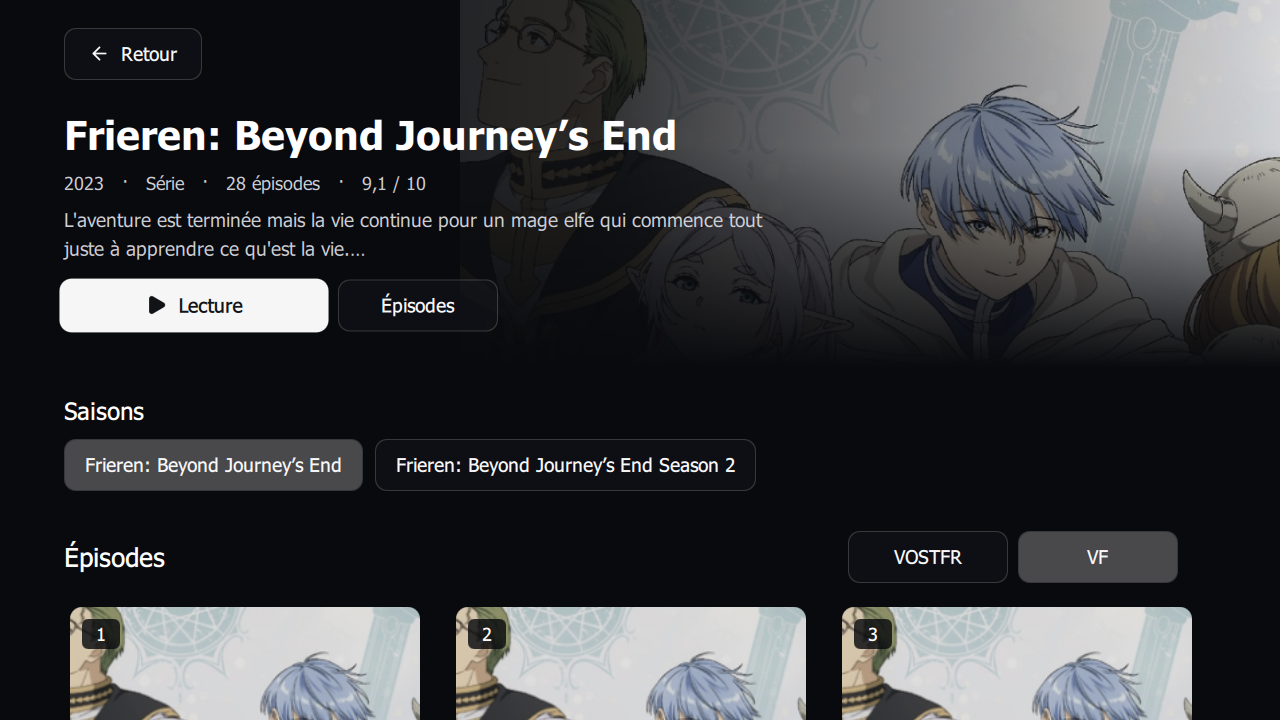
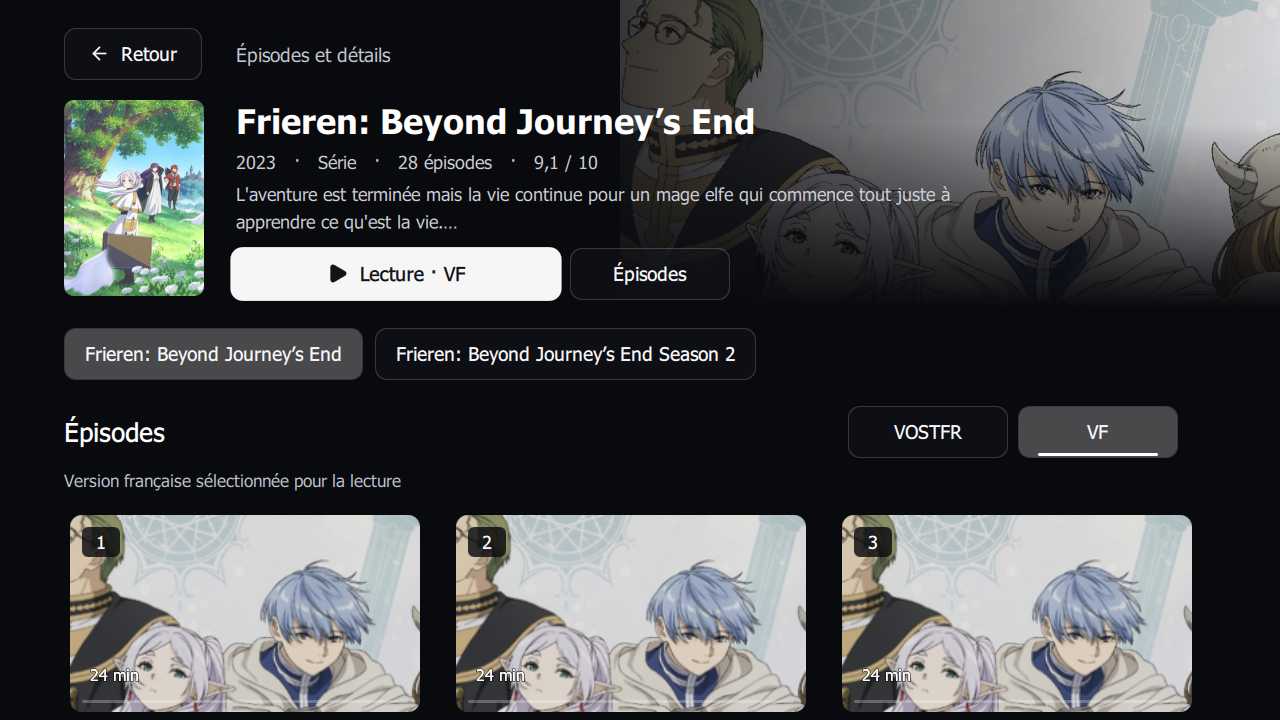
fix: clarify TV details language selection and back navigation

diff --git a/packages/lan/devialet/hero/DetailView.qml b/packages/lan/devialet/hero/DetailView.qml
@@ -28,6 +28,7 @@ FocusScope {
     property int pageIndex: 0
     property int pageStart: 1
     property bool french: false
+    property int languageIndex: 0
     property var stack: []
     readonly property var card: detail && detail.carte ? detail.carte : media
     readonly property var episodes: episodeData && episodeData.episodes ? episodeData.episodes : []
@@ -46,7 +47,7 @@ FocusScope {
     function open(c) {stack=[];opened=true;load(c);forceActiveFocus();}
     function load(c) {
         var key=identity(c),turn=++generation;episodeGeneration++;media=c;detail=null;episodeData=null;extrasError='';state='loading';episodeState='loading';zone='actions';actionIndex=0;episodeIndex=0;relationIndex=0;castIndex=0;recommendationIndex=0;pageIndex=0;pageStart=1;
-        french=!!(c && (c.a_lancer ? c.a_lancer.vf : c.franime && c.franime.vf));viewport.contentY=0;
+        french=!!(c && (c.a_lancer ? c.a_lancer.vf : c.franime && c.franime.vf));languageIndex=french ? 1 : 0;viewport.contentY=0;
         if(!key || !transport){state='error';return;}
         artworks.request(c,'banner',true);
         transport.api('/tv/v1/catalog/detail',key,45000,function(status,value) {
@@ -83,11 +84,12 @@ FocusScope {
             });
         });
     }
-    function remember() {return {media:media,detail:detail,episodeData:episodeData,zone:zone,actionIndex:actionIndex,episodeIndex:episodeIndex,seasonIndex:seasonIndex,relationIndex:relationIndex,castIndex:castIndex,recommendationIndex:recommendationIndex,pageStart:pageStart,french:french,scroll:viewport.contentY};}
+    function remember() {return {media:media,detail:detail,episodeData:episodeData,zone:zone,actionIndex:actionIndex,episodeIndex:episodeIndex,seasonIndex:seasonIndex,relationIndex:relationIndex,castIndex:castIndex,recommendationIndex:recommendationIndex,pageStart:pageStart,french:french,languageIndex:languageIndex,scroll:viewport.contentY};}
     function visit(c) {if(!identity(c))return;stack=stack.slice(-11).concat([remember()]);load(c);}
     function back() {
+        if(!stack.length && zone!=='actions' && zone!=='back'){zone='actions';actionIndex=0;viewport.contentY=0;return;}
         generation++;episodeGeneration++;
-        if(stack.length){var saved=stack[stack.length-1];stack=stack.slice(0,-1);media=saved.media;detail=saved.detail;episodeData=saved.episodeData;state=detail ? 'ready' : 'error';episodeState=episodeData ? 'ready' : 'error';zone=saved.zone;actionIndex=saved.actionIndex;episodeIndex=saved.episodeIndex;seasonIndex=saved.seasonIndex;relationIndex=saved.relationIndex;castIndex=saved.castIndex;recommendationIndex=saved.recommendationIndex;pageStart=saved.pageStart;french=saved.french;Qt.callLater(function(){viewport.contentY=saved.scroll;});}
+        if(stack.length){var saved=stack[stack.length-1];stack=stack.slice(0,-1);media=saved.media;detail=saved.detail;episodeData=saved.episodeData;state=detail ? 'ready' : 'error';episodeState=episodeData ? 'ready' : 'error';zone=saved.zone;actionIndex=saved.actionIndex;episodeIndex=saved.episodeIndex;seasonIndex=saved.seasonIndex;relationIndex=saved.relationIndex;castIndex=saved.castIndex;recommendationIndex=saved.recommendationIndex;pageStart=saved.pageStart;french=saved.french;languageIndex=saved.languageIndex;Qt.callLater(function(){viewport.contentY=saved.scroll;});}
         else {opened=false;closed();}
     }
     function launch(e) {
@@ -110,11 +112,11 @@ FocusScope {
         viewport.contentY=item ? Math.min(item.y-28,Math.max(0,viewport.contentHeight-viewport.height)) : 0;
         if(zone==='episodes')episodeRail.positionViewAtIndex(episodeIndex,ListView.Contain);
     }
-    function move(direction) {var list=zones(),at=list.indexOf(zone);zone=list[Math.max(0,Math.min(list.length-1,at+direction))];scrollToZone();}
+    function move(direction) {var list=zones(),at=list.indexOf(zone);zone=list[Math.max(0,Math.min(list.length-1,at+direction))];if(zone==='language')languageIndex=french ? 1 : 0;scrollToZone();}
     function activate() {
         if(zone==='back')back();else if(zone==='actions'){if(actionIndex===1){zone=episodes.length ? 'episodes' : 'language';scrollToZone();}else primary();}
         else if(zone==='seasons') {var c=seasons[seasonIndex];if(c && (!card || c.anilist_id!==card.anilist_id))visit(c);}
-        else if(zone==='language'){if(hasFrench)french=!french;else if(episodeState==='error')loadEpisodes(pageStart,0);}
+        else if(zone==='language'){if(languageIndex===0 || hasFrench){french=languageIndex===1;extrasError='';}else extrasError='La VF n’est pas disponible pour cette saison.';}
         else if(zone==='episodes')launch(currentEpisode);
         else if(zone==='pages'){if(pageIndex===0 && canPrevious)loadEpisodes(Math.max(1,pageStart-40),0);else if(pageIndex===1 && canNext)loadEpisodes(pageStart+episodes.length,0);}
         else if(zone==='relations')visit(relations[relationIndex].carte);
@@ -122,7 +124,7 @@ FocusScope {
     }
     function horizontal(delta) {
         if(zone==='actions')actionIndex=Math.max(0,Math.min(1,actionIndex+delta));
-        else if(zone==='language' && hasFrench)french=delta>0;
+        else if(zone==='language')languageIndex=delta>0 ? 1 : 0;
         else if(zone==='seasons')seasonIndex=Math.max(0,Math.min(seasons.length-1,seasonIndex+delta));
         else if(zone==='episodes'){episodeIndex=Math.max(0,Math.min(episodes.length-1,episodeIndex+delta));episodeRail.positionViewAtIndex(episodeIndex,ListView.Contain);}
         else if(zone==='pages')pageIndex=delta>0 ? 1 : 0;
@@ -134,25 +136,29 @@ FocusScope {
     Flickable {
         id:viewport;objectName:'detailViewport';anchors.fill:parent;contentWidth:1280;contentHeight:content.height;interactive:false;clip:true;boundsBehavior:Flickable.StopAtBounds
         Behavior on contentY {enabled:!view.reducedMotion;NumberAnimation {duration:Motion.ms('scroll');easing.type:Easing.Bezier;easing.bezierCurve:Motion.easeOut()}}
-        Column {id:content;width:1280;spacing:28
-            Item {id:header;width:1280;height:Math.max(368,headerText.height+140)
-                HeroArtwork {x:460;y:0;width:820;height:header.height;retainPrevious:false;requestedSource:view.art(view.card);fallbackSource:view.card ? view.card.affiche || '' : '';onFailed:view.artworks.request(view.card,poster ? 'poster' : 'banner',true)}
+        Column {id:content;width:1280;spacing:20
+            Item {id:header;width:1280;height:Math.max(308,headerText.height+108)
+                HeroArtwork {x:620;y:0;width:660;height:header.height;retainPrevious:false;requestedSource:view.art(view.card);fallbackSource:view.card ? view.card.affiche || '' : '';onFailed:view.artworks.request(view.card,poster ? 'poster' : 'banner',true)}
                 Rectangle {anchors.fill:parent;gradient:Gradient {orientation:Gradient.Horizontal;GradientStop {position:0;color:'#ff090a0d'} GradientStop {position:.45;color:'#dc090a0d'} GradientStop {position:1;color:'#20090a0d'}}}
                 Rectangle {anchors.fill:parent;gradient:Gradient {GradientStop {position:.4;color:'#00090a0d'} GradientStop {position:1;color:'#ff090a0d'}}}
                 HeroButton {x:64;y:28;width:138;iconKey:'arrow-left';label:'Retour';family:view.family;focused:view.zone==='back';onActivated:view.back()}
-                Column {id:headerText;x:64;y:110;width:760;spacing:14
-                    Text {width:760;text:view.card ? view.card.titre || '' : '';textFormat:Text.PlainText;color:'white';font.family:view.family;font.pixelSize:40;font.weight:Font.Bold;maximumLineCount:2;wrapMode:Text.WordWrap;elide:Text.ElideRight}
+                Text {x:236;y:43;text:'Épisodes et détails';color:'#c6c9d3';font.family:view.family;font.pixelSize:19}
+                Rectangle {x:64;y:100;width:140;height:196;radius:10;color:'#242731'
+                    Image {id:poster;anchors.fill:parent;source:{var local=view.artworks && view.card ? view.artworks.sources[String(view.card.anilist_id)] : null;return local && local.poster || (view.card ? view.card.affiche || '' : '');}asynchronous:true;fillMode:Image.PreserveAspectCrop;sourceSize.width:280;visible:false;onStatusChanged:if(status===Image.Error)view.artworks.request(view.card,'poster',true)}
+                    OpacityMask {anchors.fill:parent;source:poster;maskSource:Rectangle {width:140;height:196;radius:10}}
+                }
+                Column {id:headerText;x:236;y:100;width:820;spacing:10
+                    Text {width:820;text:view.card ? view.card.titre || '' : '';textFormat:Text.PlainText;color:'white';font.family:view.family;font.pixelSize:34;font.weight:Font.Bold;maximumLineCount:2;wrapMode:Text.WordWrap;elide:Text.ElideRight}
                     Text {text:view.card ? [view.card.annee,view.card.format==='MOVIE' ? 'Film' : 'Série',view.card.episodes ? view.card.episodes+' épisodes' : '',view.card.score ? (view.card.score/10).toFixed(1).replace('.',',')+' / 10' : ''].filter(function(v){return !!v;}).join('   ·   ') : '';color:'#d0d1d8';font.family:view.family;font.pixelSize:18}
-                    Text {width:700;text:view.detail ? view.detail.resume_complet || '' : view.state==='error' ? 'La fiche est indisponible pour le moment.' : 'Chargement de la fiche…';textFormat:Text.PlainText;color:'#d0d1d8';font.family:view.family;font.pixelSize:19;lineHeight:1.25;maximumLineCount:2;wrapMode:Text.WordWrap;elide:Text.ElideRight}
+                    Text {width:790;text:view.detail ? view.detail.resume_complet || '' : view.state==='error' ? 'La fiche est indisponible pour le moment.' : 'Chargement de la fiche…';textFormat:Text.PlainText;color:'#d0d1d8';font.family:view.family;font.pixelSize:18;lineHeight:1.25;maximumLineCount:2;wrapMode:Text.WordWrap;elide:Text.ElideRight}
                     Row {spacing:14
-                        HeroButton {objectName:'detailPlay';width:260;iconKey:'play';label:view.state==='error' || view.episodeState==='error' ? 'Réessayer' : view.card && view.card.a_lancer ? 'Reprendre · Ép. '+view.card.a_lancer.numero : 'Lecture';family:view.family;primary:true;groupHasFocus:true;focused:view.zone==='actions' && view.actionIndex===0;onActivated:view.primary()}
+                        HeroButton {objectName:'detailPlay';width:320;iconKey:'play';label:view.state==='error' || view.episodeState==='error' ? 'Réessayer' : (view.card && view.card.a_lancer ? 'Reprendre · Ép. '+view.card.a_lancer.numero : 'Lecture')+' · '+(view.french ? 'VF' : 'VOSTFR');family:view.family;primary:true;groupHasFocus:true;focused:view.zone==='actions' && view.actionIndex===0;onActivated:view.primary()}
                         HeroButton {width:160;label:'Épisodes';family:view.family;focused:view.zone==='actions' && view.actionIndex===1;onActivated:{view.zone='actions';view.actionIndex=1;view.activate();}}
                     }
                 }
             }
             Column {id:seasonSection;x:64;width:1152;spacing:14;visible:view.seasons.length>1
-                Text {text:'Saisons';color:'white';font.family:view.family;font.pixelSize:24;font.weight:Font.DemiBold}
-                ListView {id:seasonRail;width:1152;height:64;orientation:ListView.Horizontal;spacing:12;clip:true;interactive:false;model:view.seasons;currentIndex:view.seasonIndex;onCurrentIndexChanged:positionViewAtIndex(currentIndex,ListView.Contain)
+                ListView {id:seasonRail;width:1152;height:58;orientation:ListView.Horizontal;spacing:12;clip:true;interactive:false;model:view.seasons;currentIndex:view.seasonIndex;onCurrentIndexChanged:positionViewAtIndex(currentIndex,ListView.Contain)
                     delegate:HeroButton {width:Math.min(420,Math.max(210,seasonLabel.implicitWidth+42));label:modelData.titre || '';family:view.family;focused:view.zone==='seasons' && view.seasonIndex===index;selected:view.card && modelData.anilist_id===view.card.anilist_id;onActivated:{view.seasonIndex=index;view.zone='seasons';view.activate();}
                         Text {id:seasonLabel;text:modelData.titre || '';font.family:view.family;font.pixelSize:19;visible:false}
                     }
@@ -162,10 +168,15 @@ FocusScope {
                 Row {width:1152;spacing:24
                     Text {width:760;anchors.verticalCenter:parent.verticalCenter;text:'Épisodes';color:'white';font.family:view.family;font.pixelSize:26;font.weight:Font.DemiBold}
                     Row {spacing:10
-                        HeroButton {objectName:'episodeLanguage';width:160;label:'VOSTFR';family:view.family;selected:!view.french;focused:view.zone==='language' && !view.french;onActivated:{view.zone='language';view.french=false;}}
-                        HeroButton {width:160;label:'VF';family:view.family;selected:view.french;opacity:view.hasFrench ? 1 : .35;focused:view.zone==='language' && view.french;onActivated:{view.zone='language';if(view.hasFrench)view.french=true;}}
+                        HeroButton {objectName:'episodeLanguage';width:160;label:'VOSTFR';family:view.family;selected:!view.french;focused:view.zone==='language' && view.languageIndex===0;onActivated:{view.zone='language';view.languageIndex=0;view.activate();}
+                            Rectangle {x:20;y:parent.height-5;width:parent.width-40;height:3;radius:1.5;color:view.zone==='language' && view.languageIndex===0 ? '#16181d' : 'white';visible:!view.french}
+                        }
+                        HeroButton {width:160;label:'VF';family:view.family;selected:view.french;opacity:view.hasFrench ? 1 : .35;focused:view.zone==='language' && view.languageIndex===1;onActivated:{view.zone='language';view.languageIndex=1;view.activate();}
+                            Rectangle {x:20;y:parent.height-5;width:parent.width-40;height:3;radius:1.5;color:view.zone==='language' && view.languageIndex===1 ? '#16181d' : 'white';visible:view.french}
+                        }
                     }
                 }
+                Text {width:1152;text:view.french ? 'Version française sélectionnée pour la lecture' : 'Version originale sous-titrée en français sélectionnée';color:'#c1c5d0';font.family:view.family;font.pixelSize:17}
                 Text {height:visible ? implicitHeight : 0;visible:view.episodeState!=='ready' || !view.episodes.length; text:view.episodeState==='loading' ? 'Chargement des épisodes…' : view.episodeState==='error' ? 'Épisodes indisponibles. Choisis Réessayer en haut de la fiche.' : 'Aucun épisode disponible.';color:'#b6b8c3';font.family:view.family;font.pixelSize:19}
                 ListView {id:episodeRail;objectName:'detailEpisodes';width:1152;height:view.episodes.length ? 232 : 0;orientation:ListView.Horizontal;spacing:20;clip:true;interactive:false;model:view.episodes;cacheBuffer:0
                     delegate:Item {width:366;height:230

diff --git a/packages/lan/devialet/hero/Hero.qml b/packages/lan/devialet/hero/Hero.qml
@@ -217,25 +217,22 @@ FocusScope {
             }
         }
     }
-    Item {x:64;y:24;width:338;height:60
-        Item {anchors.fill:parent;layer.enabled:true;layer.effect:OpacityMask {maskSource:Rectangle {width:338;height:60;radius:30}}
-            ShaderEffectSource {id:navSample;sourceItem:backdrop;sourceRect:Qt.rect(64,24,338,60);live:true;visible:false}
-            FastBlur {anchors.fill:parent;source:navSample;radius:24}
+    Rectangle {x:0;y:0;width:1280;height:102;gradient:Gradient {GradientStop {position:0;color:'#d9090a0d'} GradientStop {position:1;color:'#00090a0d'}}}
+    Row {x:64;y:24;spacing:12
+        HeroButton {objectName:'homeEntry';width:140;flat:true;label:'Accueil';family:scene.family;reducedMotion:scene.reducedMotion;focused:scene.zone==='nav' && scene.navIndex===2;onActivated:{scene.zone='actions';scene.navIndex=2;scene.forceActiveFocus();}
+            Rectangle {x:44;y:48;width:52;height:3;radius:1.5;color:parent.focused ? '#15171c' : 'white'}
         }
-        Rectangle {anchors.fill:parent;radius:30;color:'#8c13161c';border.color:'#24ffffff'}
-        Row {x:6;y:4;spacing:4
-            HeroButton {objectName:'homeEntry';width:140;pill:true;flat:true;label:'Accueil';family:scene.family;reducedMotion:scene.reducedMotion;focused:scene.zone==='nav' && scene.navIndex===2;onActivated:{scene.zone='actions';scene.navIndex=2;scene.forceActiveFocus();}}
-            HeroButton {objectName:'searchEntry';width:180;pill:true;flat:true;iconKey:'search';label:'Recherche';family:scene.family;reducedMotion:scene.reducedMotion;focused:scene.zone==='nav' && scene.navIndex===0;onActivated:{scene.zone='nav';scene.navIndex=0;scene.searchRequested();}}
-        }
+        HeroButton {objectName:'searchEntry';width:180;flat:true;iconKey:'search';label:'Recherche';family:scene.family;reducedMotion:scene.reducedMotion;focused:scene.zone==='nav' && scene.navIndex===0;onActivated:{scene.zone='nav';scene.navIndex=0;scene.searchRequested();}}
     }
-    Item {objectName:'profileEntry';x:1000;y:28;width:216;height:52
+    Item {id:profileControl;objectName:'profileEntry';x:1216-width;y:24;width:Math.max(130,Math.min(260,profileName.implicitWidth+78));height:52
+        property bool focused:scene.zone==='nav' && scene.navIndex===1
         Accessible.role:Accessible.Button;Accessible.name:'Profil'
-        Rectangle {x:-12;y:-4;width:240;height:60;radius:30;color:'#cc13161c';border.color:scene.zone==='nav' && scene.navIndex===1 ? 'white' : '#24ffffff';border.width:scene.zone==='nav' && scene.navIndex===1 ? 2 : 1}
-        Text {x:0;width:148;anchors.verticalCenter:parent.verticalCenter;text:scene.homeData.compte ? scene.homeData.compte.pseudo || 'Profil' : 'Profil';textFormat:Text.PlainText;elide:Text.ElideRight;horizontalAlignment:Text.AlignRight;color:scene.zone==='nav' && scene.navIndex===1 ? 'white' : '#d0d1d8';font.family:scene.family;font.pixelSize:19}
-        Rectangle {x:164;width:52;height:52;radius:26;color:'#b32c3039';border.color:scene.zone==='nav' && scene.navIndex===1 ? 'white' : '#50ffffff';border.width:scene.zone==='nav' && scene.navIndex===1 ? 3 : 1
-            Image {id:navAvatar;anchors.fill:parent;anchors.margins:4;source:scene.avatar;sourceSize.width:104;fillMode:Image.PreserveAspectCrop;asynchronous:true;visible:false}
-            OpacityMask {anchors.fill:navAvatar;source:navAvatar;maskSource:Rectangle {width:44;height:44;radius:22}}
-            Icon {anchors.centerIn:parent;width:24;height:24;name:'user-round';visible:navAvatar.status!==Image.Ready}
+        Rectangle {anchors.fill:parent;radius:12;color:profileControl.focused ? '#f6f6f7' : '#7513161c';border.color:profileControl.focused ? 'white' : '#30ffffff'}
+        Text {id:profileName;x:18;width:parent.width-78;anchors.verticalCenter:parent.verticalCenter;text:scene.homeData.compte ? scene.homeData.compte.pseudo || 'Profil' : 'Profil';textFormat:Text.PlainText;elide:Text.ElideRight;color:profileControl.focused ? '#121316' : 'white';font.family:scene.family;font.pixelSize:19;font.weight:Font.DemiBold}
+        Rectangle {x:parent.width-50;y:6;width:40;height:40;radius:20;color:'#b32c3039'
+            Image {id:navAvatar;anchors.fill:parent;anchors.margins:2;source:scene.avatar;sourceSize.width:80;fillMode:Image.PreserveAspectCrop;asynchronous:true;visible:false}
+            OpacityMask {anchors.fill:navAvatar;source:navAvatar;maskSource:Rectangle {width:36;height:36;radius:18}}
+            Icon {anchors.centerIn:parent;width:22;height:22;name:'user-round';visible:navAvatar.status!==Image.Ready}
         }
         MouseArea {anchors.fill:parent;onClicked:{scene.zone='nav';scene.navIndex=1;scene.profileRequested();}}
     }

diff --git a/packages/lan/devialet/hero/live.qml b/packages/lan/devialet/hero/live.qml
@@ -29,6 +29,10 @@ Application {
         property string returnPanel: 'search'
         property string homeRowId: ''
         property string detailOrigin: ''
+        property bool exitVisible:false
+        property bool exitChosen:false
+        function askExit(){exitVisible=true;exitChosen=false;hero.previewEnabled=false;exitDialog.forceActiveFocus();}
+        function cancelExit(){exitVisible=false;hero.previewEnabled=true;hero.forceActiveFocus();}
         function openDetail(media) {
             if(detailPanel.status!==Loader.Ready){hero.notice='La fiche n’a pas pu être chargée. Relance Atlas TV.';return;}
             detailOrigin=panel;
@@ -144,7 +148,7 @@ Application {
             onTrailerRequested: screen.preview()
             onPlayRequested: screen.launch(media,target)
             onDetailsRequested:screen.openDetail(media)
-            onDismissed: Qt.quit()
+            onDismissed: screen.askExit()
             onArtworkFailed:artworks.request(media,kind,true)
             onSearchRequested:screen.openPanel('search')
             onProfileRequested:screen.openPanel('profile')
@@ -181,6 +185,23 @@ Application {
                     if(screen.resolving) { screen.generation++; screen.resolving=false; screen.returnFromPlayback(); }else if(screen.panel==='detail')detailPanel.item.back();else if(screen.panel)screen.closePanel();else Qt.quit();
                 } else if((event.key===Qt.Key_Return || event.key===Qt.Key_Select || event.key===Qt.Key_Enter) && session.state==='error' && session.accessToken) session.loadHome();
                 else return;
+                event.accepted=true;
+            }
+        }
+        FocusScope {id:exitDialog;objectName:'exitDialog';anchors.fill:parent;visible:screen.exitVisible
+            Rectangle {anchors.fill:parent;color:'#df090a0d'}
+            Rectangle {x:350;y:230;width:580;height:260;radius:24;color:'#242730';border.color:'#45ffffff'
+                Text {x:36;y:34;width:508;text:'Quitter Atlas TV ?';color:'white';font.family:regular.name || 'sans-serif';font.pixelSize:32;font.weight:Font.Bold}
+                Text {x:36;y:90;width:508;text:'Tu reviendras à l’écran du Devialet.';color:'#c7cad4';font.family:regular.name || 'sans-serif';font.pixelSize:19}
+                Row {x:36;y:162;spacing:16
+                    HeroButton {width:246;label:'Rester';family:regular.name || 'sans-serif';focused:!screen.exitChosen;onActivated:screen.cancelExit()}
+                    HeroButton {width:246;label:'Quitter';family:regular.name || 'sans-serif';focused:screen.exitChosen;onActivated:Qt.quit()}
+                }
+            }
+            Keys.onPressed:{
+                if(event.key===Qt.Key_Back || event.key===Qt.Key_Escape)screen.cancelExit();
+                else if(event.key===Qt.Key_Left)screen.exitChosen=false;else if(event.key===Qt.Key_Right)screen.exitChosen=true;
+                else if(event.key===Qt.Key_Return || event.key===Qt.Key_Enter || event.key===Qt.Key_Select){if(screen.exitChosen)Qt.quit();else screen.cancelExit();}else return;
                 event.accepted=true;
             }
         }

diff --git a/packages/lan/scripts/test-atlas-tv-live.py b/packages/lan/scripts/test-atlas-tv-live.py
@@ -285,6 +285,16 @@ Item {
             spin(lambda:detail.property('episodeState')=='ready')
             assert detail.property('detail').toVariant()['carte']['anilist_id']==154587
             assert detail.property('episodes').toVariant()[0]['numero']==1
+            detail.setProperty('zone','language');detail.setProperty('languageIndex',1);detail.setProperty('french',True)
+            QTest.keyClick(window,Qt.Key_Left)
+            assert detail.property('french') is True, 'Focus must not change the chosen language'
+            QTest.keyClick(window,Qt.Key_Return);QTest.keyClick(window,Qt.Key_Return)
+            assert detail.property('french') is False, 'OK selects VOSTFR; pressing twice must not toggle it'
+            QTest.keyClick(window,Qt.Key_Right)
+            assert detail.property('french') is False
+            QTest.keyClick(window,Qt.Key_Return)
+            assert detail.property('french') is True and 'VF' in window.findChild(QObject,'detailPlay').property('label')
+            detail.setProperty('zone','actions')
             spin(lambda:any(i.property('status')==1 and str(i.property('source').toString())==details['154587']['carte']['banniere'] for i in detail.findChildren(QObject,'heroBanner')))
             QTest.qWait(300)
             assert window.grabWindow().save(str(args.evidence/'detail-top.png'))
@@ -310,7 +320,16 @@ Item {
             QTest.keyClick(window,Qt.Key_Back);QTest.qWait(100)
             assert detail.property('card').toVariant()['anilist_id']==154587 and detail.property('episodeIndex')==2 and detail.property('zone')=='recommendations'
             QTest.keyClick(window,Qt.Key_Back);QTest.qWait(80)
+            assert screen.property('panel')=='detail' and detail.property('zone')=='actions'
+            QTest.keyClick(window,Qt.Key_Back);QTest.qWait(80)
             assert screen.property('panel')=='' and hero.property('actionIndex')==1
+            QTest.keyClick(window,Qt.Key_Back)
+            assert screen.property('exitVisible') is True and screen.property('exitChosen') is False
+            assert window.grabWindow().save(str(args.evidence/'exit-dialog.png'))
+            QTest.keyClick(window,Qt.Key_Back)
+            assert screen.property('exitVisible') is False
+            QTest.keyClick(window,Qt.Key_Back);QTest.keyClick(window,Qt.Key_Return)
+            assert screen.property('exitVisible') is False and window.isVisible()
             session.setProperty('delayDetails',True)
             screen.openDetail(details['154587']['carte'])
             detail.visit(details['182255']['carte'])

diff --git a/docs/research/2026-10-28-atlas-tv-detail.md b/docs/research/2026-10-28-atlas-tv-detail.md
@@ -1,5 +1,31 @@
 # Atlas TV — fiche animé et navigation
 
+## Correction après la première réception native
+
+Le paquet `hero-e0f033c` a été publié (21 fichiers, gateway inchangé). Le Player
+confirme fiche 21507 et ses 12 épisodes. Walson confirme le fonctionnement mais
+rejette la clarté du parcours : deux Retour ferment l’app, langue ambiguë,
+fiche trop proche du héros, espace inutile devant le pseudo, navigation confuse.
+Ce retour n’est donc pas une validation esthétique ni une validation VF.
+
+La correction distingue la fiche par une affiche à gauche et « Épisodes et
+détails ». Les épisodes apparaissent davantage dès l’ouverture. L’en-tête
+d’accueil utilise des entrées simples, Accueil souligné comme page active,
+et un profil dont la largeur suit son contenu. Le focus reste distinct de
+cette page active. Captures comparées :
+[accueil précédent](2026-10-28-atlas-tv-detail/home-before-feedback.png),
+[fiche précédente](2026-10-28-atlas-tv-detail/detail-top-before-feedback.png).
+
+La langue active est soulignée, indiquée par une phrase et rappelée dans le
+bouton Lecture. Gauche/Droite déplacent le focus ; OK choisit cette langue
+sans la rebascule au second appui. Retour depuis une section remonte d’abord
+en haut de fiche, puis à l’accueil. Depuis une fiche liée, il restitue d’abord
+la fiche précédente. À l’accueil, une [sortie explicite](2026-10-28-atlas-tv-detail/exit-dialog.png)
+sélectionne Rester par défaut ; deux Retour ne ferment plus le programme.
+Les bancs vérifient ces gestes, y compris la conservation des réponses en cours
+lorsqu’on remonte seulement dans la même fiche. Réception de cette correction
+et lecture VF natives restent à confirmer.
+
 ## Parcours et références
 
 Walson demande la fiche Atlas PC : saisons/épisodes, personnages/doubleurs,

diff --git a/docs/design_concept.md b/docs/design_concept.md
@@ -2,6 +2,13 @@
 
 ## Atlas TV — fiche et navigation
 
+Après réception native, Walson signale une confusion fiche/accueil et de langue,
+ainsi qu’une fermeture accidentelle. La fiche prend une affiche distincte,
+les langues séparent focus et choix confirmé, Accueil porte son état de page,
+le profil suit la largeur du pseudo. Retour remonte la fiche et la sortie est
+explicite avec Rester par défaut. Cette passe est contrôlée sur banc et reste
+en revue native ; le premier affichage fonctionnel n’est pas une validation UX.
+
 La [fiche animé](research/2026-10-28-atlas-tv-detail.md) reprend le parcours PC :
 saisons/épisodes, personnages et doubleurs, relations et recommandations.
 Les retours conservent le contexte. Accueil/Recherche partagent l’en-tête ;
